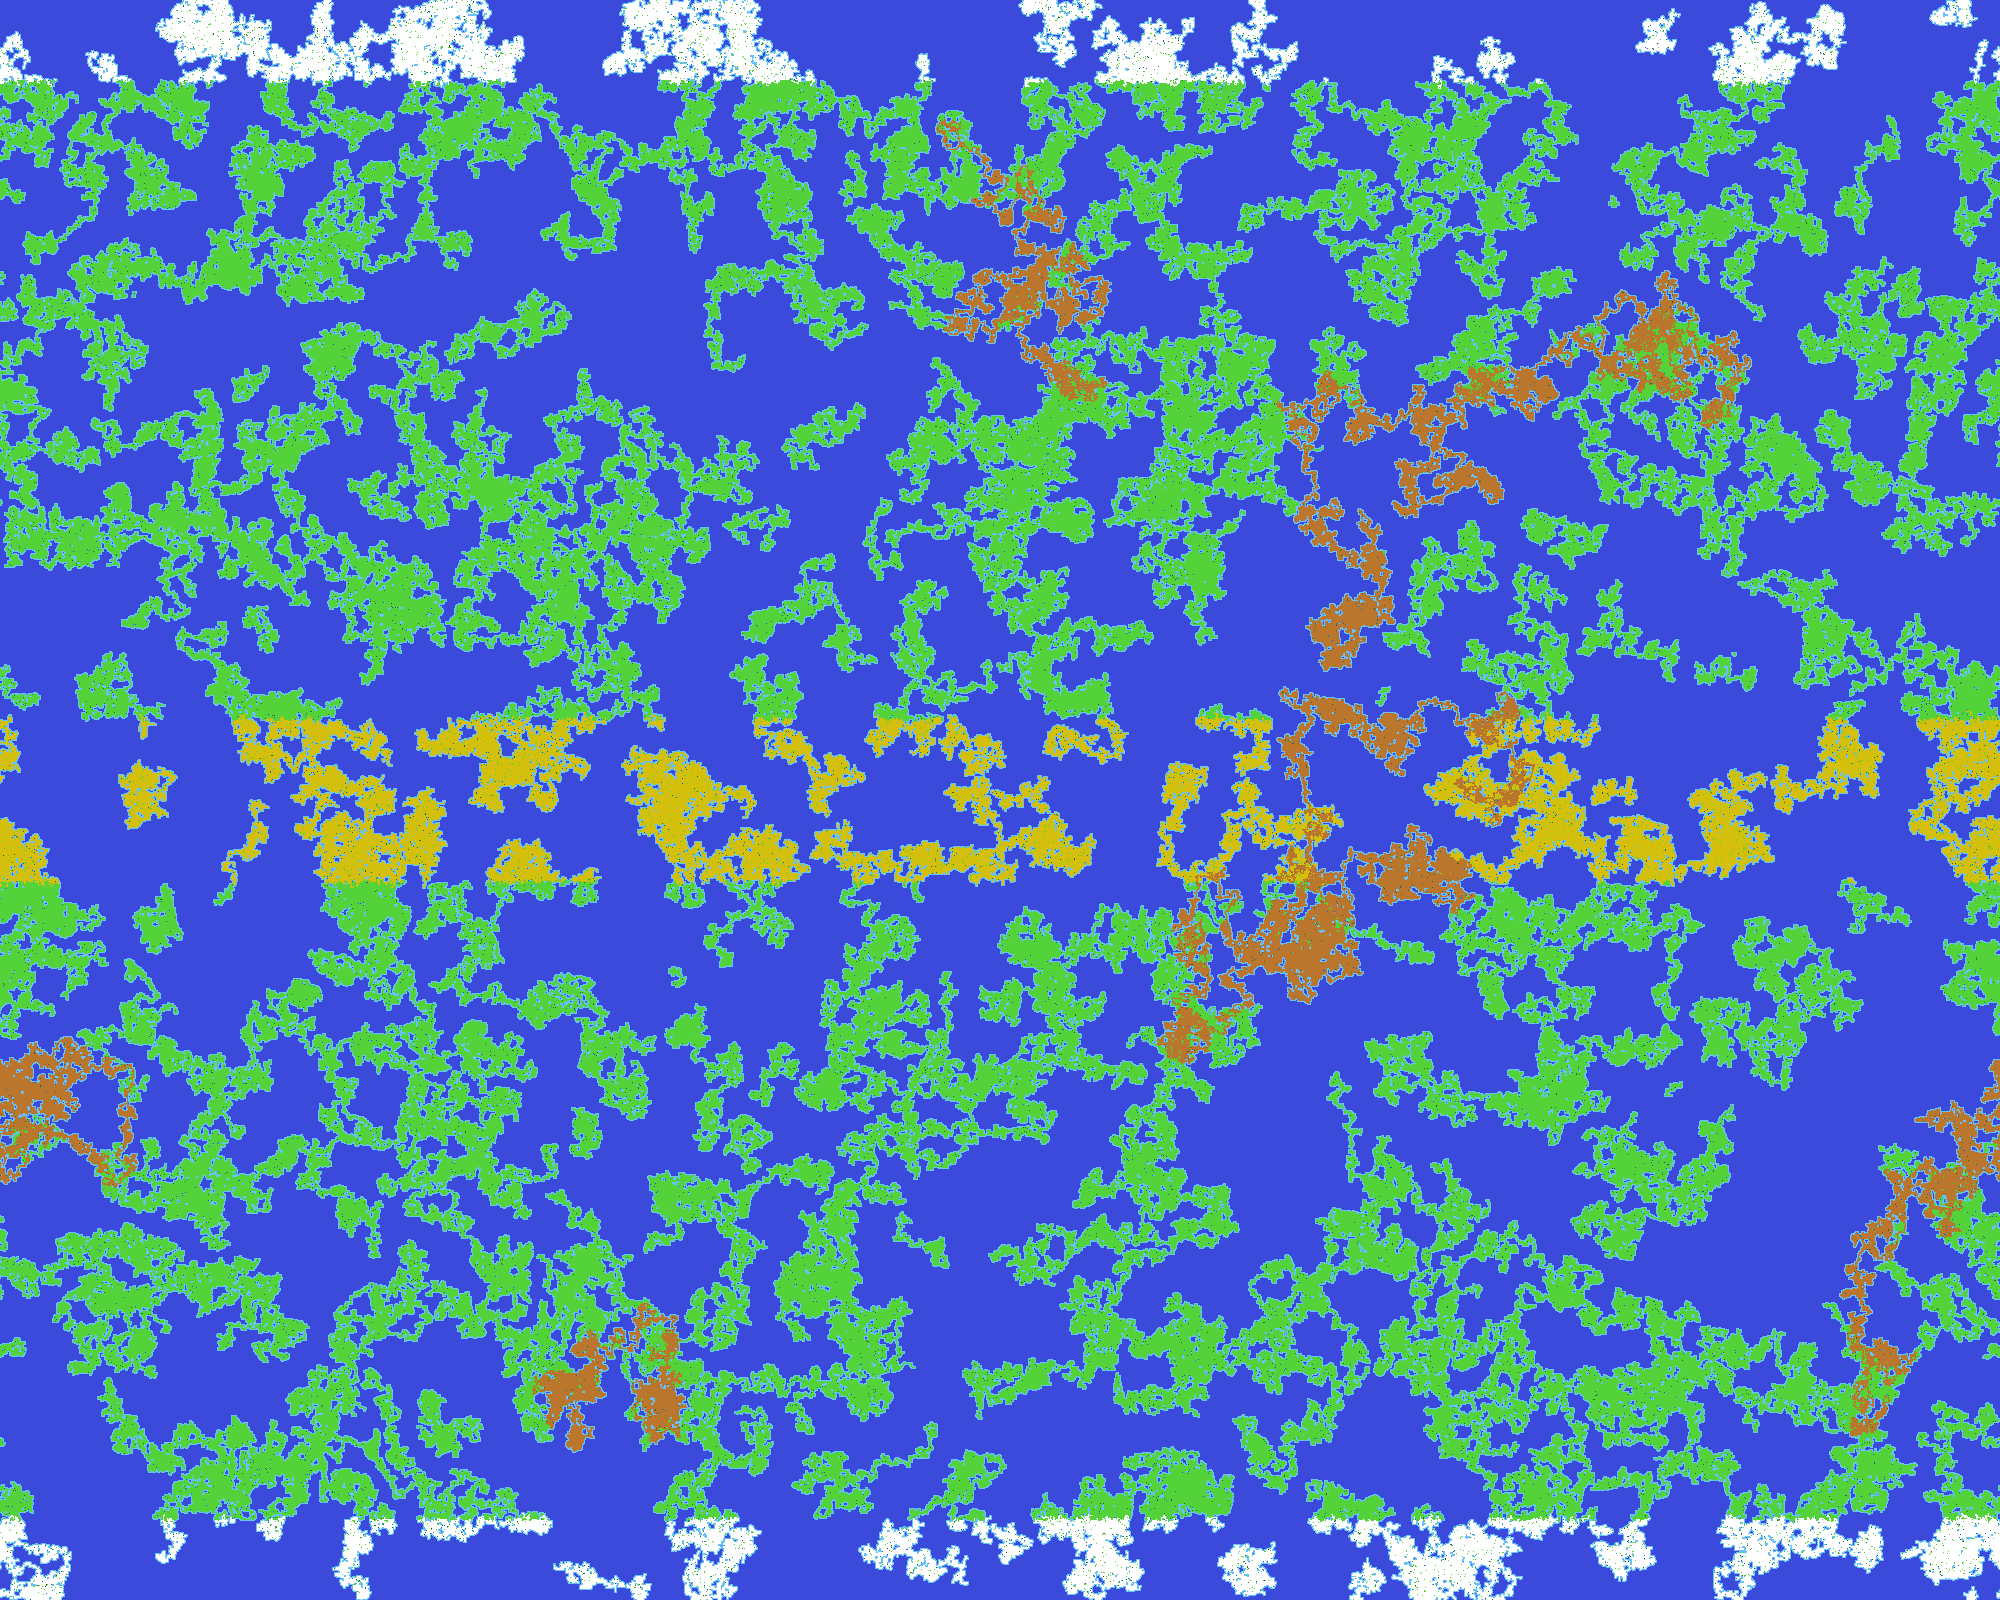
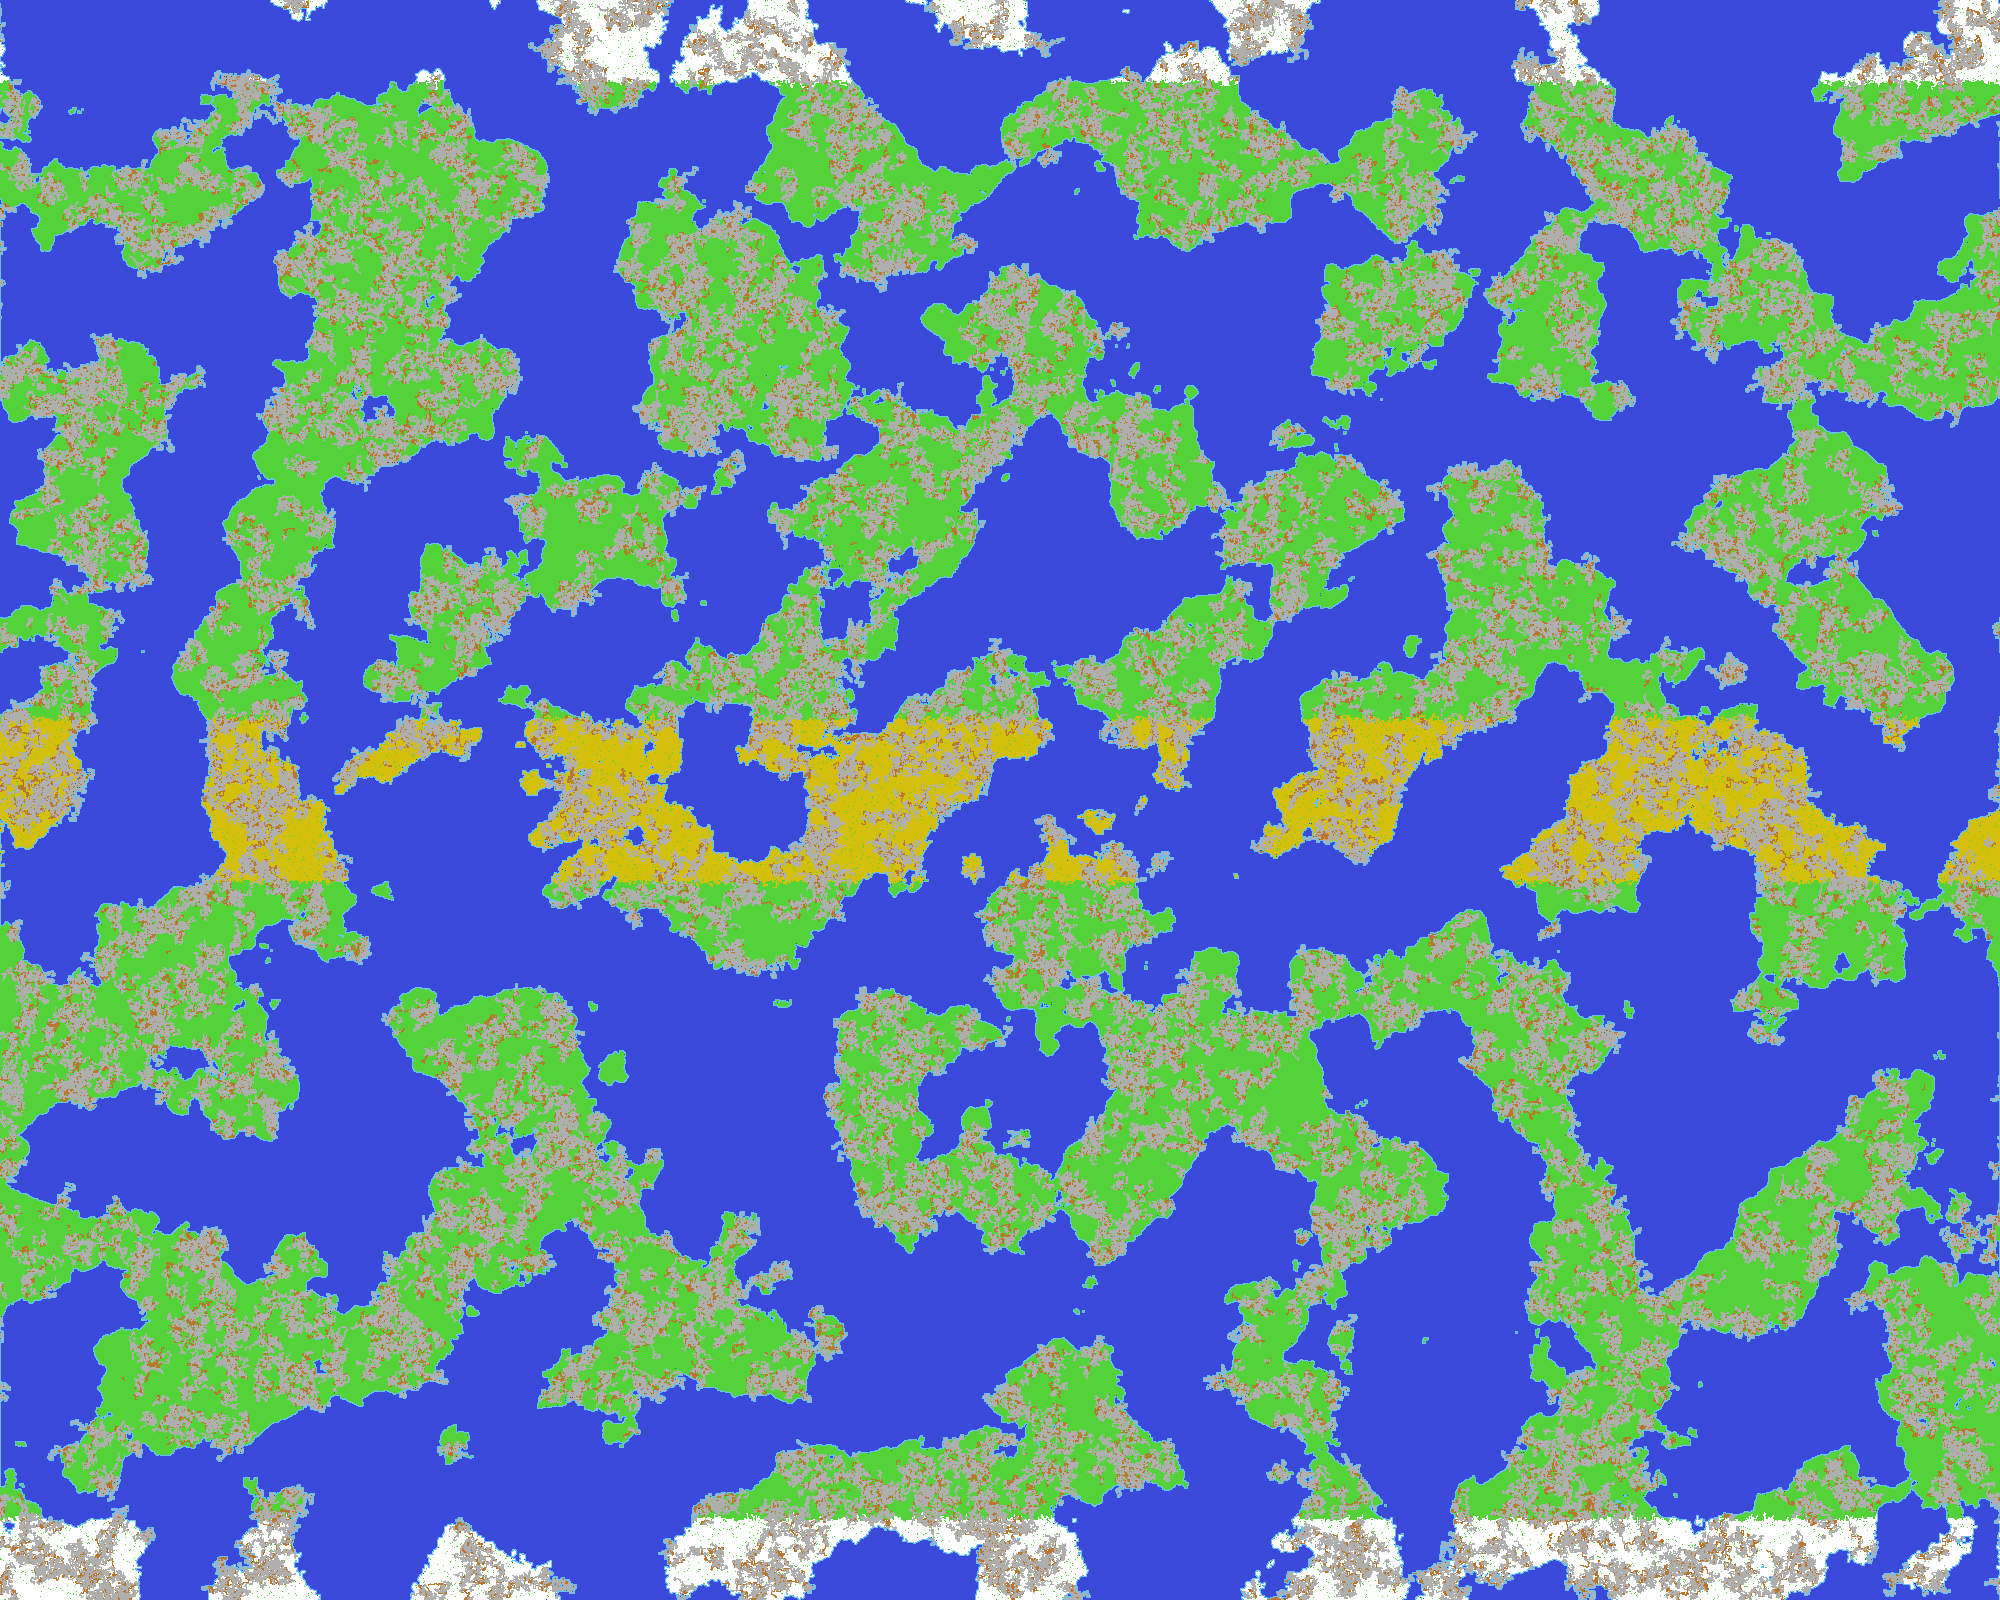
readd mountains + heightmap for land

diff --git a/map_object.py b/map_object.py
@@ -3,14 +3,12 @@ import random
 from parameters import *
 
 class MapObject():
-    hauteur = 0
-    longueur = 0
-    map = []
-    mapr = []
 
-    def __init__(self, longueur, hauteur):
+    def __init__(self, longueur, hauteur, generate_resources=True):
         self.longueur = longueur
         self.hauteur = hauteur
+        self.use_heightmap = True
+        self.generate_resources = generate_resources
         self.map = []
         self.mapr = []
     
@@ -22,8 +20,29 @@ class MapObject():
                 self.map[i].append(1)
         return self.map
     
-    def creationratio(self):
-        ratio = []
+    def get_surface(self):
+        return self.longueur * self.hauteur
+
+    def get_land_ratio(self):
+        total = self.longueur * self.hauteur
+        land = 0
+        for i in range(0, self.hauteur):
+            for j in range(0, self.longueur):
+                if self.map[i][j] != ocn and self.map[i][j] != mer:
+                    land += 1
+        return land/total
+
+    def get_hills_qtt(self):
+        hills = 0
+        for i in range(0, self.hauteur):
+            for j in range(0, self.longueur):
+                if self.map[i][j] == col:
+                    hills += 1
+        return hills    
+
+
+    def get_ratios(self):
+        ratio = dict()
         surface = self.hauteur * self.longueur
         print(surface)
         if surface <= 200:
@@ -42,17 +61,41 @@ class MapObject():
             nbcont = int(surface / 500)
             taillecont = int(surface / 250)
             surfaceterre = int(surface / 4)
-        ratio.append(surface)
-        ratio.append(nbcont)
-        ratio.append(surfaceterre)
-        ratio.append(taillecont)
+        ratio['surface'] = surface
+        ratio['nbcont'] = nbcont
+        ratio['taillecont'] = taillecont
+        ratio['surfaceterre'] = surfaceterre
+
+    def creationratio(self):
+        ratio = dict()
+        surface = self.hauteur * self.longueur
+        print(surface)
+        if surface <= 200:
+            nbcont = random.randint(1, 6)
+            taillecont = int(surface / 10)
+            surfaceterre = int(surface / 4)
+        elif surface > 200 and surface <= 2500:
+            nbcont = random.randint(3, int(surface / 50))
+            taillecont = int(surface / 20)
+            surfaceterre = int(surface / 4)
+        elif surface > 2500 and surface <= 25000:
+            nbcont = int(surface / 25)
+            taillecont = int(surface / 5)
+            surfaceterre = int(surface / 2.5)
+        else:
+            nbcont = int(surface / 500)
+            taillecont = int(surface / 250)
+            surfaceterre = int(surface / 4)
+        ratio['surface'] = surface
+        ratio['nbcont'] = nbcont
+        ratio['taillecont'] = taillecont
+        ratio['surfaceterre'] = surfaceterre
         d2 = [1, 0.75, 0.66, 0.5, 0.33, 0.25, 0.15]
         d = [0.5, 0.4, 0.33, 0.25, 0.20, 0.15, 0.10, 0.05, 0.02]
         for i in range(0, len(d)):
             ##            ratio.append(int(longueur*d[i]))
             ##            ratio.append(int(hauteur*d[i]))
             ratio.append(int(ratio[2] * d[i]))
-        print(ratio[2])
         return ratio
 
 
@@ -63,13 +106,11 @@ class MapObject():
         return var
 
 
-    def creationterre(self, ratio):
+    def creationterre(self):
         crea_time = time.time()
-        # ligne_time=time.time()
-        taille = 0
         ct = 0
-        taillemap = ratio[0]
-        for i in range(0, ratio[1]):  # defini le nb de continent
+        ratio = self.get_ratios()
+        for i in range(0, ratio['nbccont']):  # defini le nb de continent
             if (ct < ratio[2]):
                 c = 0
                 x = random.randint(0, self.longueur - 1)
@@ -82,34 +123,24 @@ class MapObject():
                 if (self.map[y][x] != terr):
                     self.map[y][x] = terr
                     ct = ct + 1
-                tailleC = random.randint(1, ratio[3])
+                tailleC = random.randint(1, ratio['surfaceterre'])
                 for b in range(1, int(tailleC)):  # defini la taille des continents
-                    if (ct < ratio[2]):
+                    if (ct < ratio['taillecont']):
                         ##                                c=0
                         caseadj = self.caseadjacente(x, y)
                         co = random.randint(0, len(caseadj) - 1)
                         x1 = caseadj[co][0]
                         y1 = caseadj[co][1]
-                        ##                                while (map[y1][x1]!=ocn and c<=4):
-                        ##                                        co=random.randint(0,len(caseadj)-1)
-                        ##                                        c=c+1
-                        ##                                        x1=caseadj[co][0]
-                        ##                                        y1=caseadj[co][1]
-                        ##            print("y1= ",y1,"  x1=",x1)
                         x = x1
                         y = y1
                         if (self.map[y][x] != terr):
                             self.map[y][x] = terr
                             ct = ct + 1
-        ##                                caseadj.clear()
-        ##                print(ct)
-        ##                n=len(poss)*2
-        ##        adj,diag=adjacence(map,x,y)
         print("Duree de generation des terres emergees : %s secondes ---" % (time.time() - crea_time))
         return self.map
 
 
-    def creationeige(self, ratio):
+    def creationeige(self):
         crea_time = time.time()
         taille = 0
         nord = int((self.hauteur / 10) * 0.5)
@@ -140,7 +171,7 @@ class MapObject():
         return self.map
 
 
-    def creationdesert(self, ratio):
+    def creationdesert(self):
         crea_time = time.time()
         nord = (self.hauteur / 10) * 4.5
         sud = (self.hauteur / 10) * 5.5
@@ -150,13 +181,6 @@ class MapObject():
             for i in range(0, self.longueur):
                 if self.map[j][i] == terre:
                     if j > nord and j < sud:
-                        ##                    ran=[]
-                        ##                    multi=random.randint(1,20)
-                        ##                    ran.append(desert)
-                        ##                    for b in range (0,multi):
-                        ##                        ran.append(0)
-                        ##                    ch=random.randint(0,len(ran)-1)
-                        ##                    if ran[ch]==desert :
                         taille = random.randint(0, 20)
                         x = i
                         y = j
@@ -178,7 +202,7 @@ class MapObject():
         return self.map
 
 
-    def creationplaine(self, ratio):
+    def creationplaine(self):
         crea_time = time.time()
         # ligne_time=time.time()
         for j in range(0, self.hauteur):
@@ -189,15 +213,14 @@ class MapObject():
         return self.map
 
 
-    def creationcolline(self, ratio):
+    def creationcolline(self):
         crea_time = time.time()
-        # ligne_time=time.time()
-        taille = 0
         ct = 0
-        print(ratio[8])
-        taillemap = ratio[0]
-        for i in range(0, int(ratio[10])):
-            if (ct < ratio[8]):
+        number_of_hills = random.randint(1, int(self.get_land_ratio() * self.get_surface() * 0.3))
+        number_of_tries = int(number_of_hills * 0.5)
+        max_number_of_hills_per_group =int(min(250, number_of_hills*0.2))
+        for i in range(0, number_of_tries):
+            if (ct < number_of_hills):
                 x = random.randint(0, self.longueur - 1)
                 y = random.randint(0, self.hauteur - 1)
                 while (self.map[y][x] not in [neige, pln, desert]):
@@ -206,7 +229,7 @@ class MapObject():
                 terr = col
                 self.map[y][x] = terr
                 ct = ct + 1
-                tailleC = random.randint(1, ratio[10])
+                tailleC = random.randint(1, max_number_of_hills_per_group)
                 for b in range(1, int(tailleC)):
                     c = 0
                     caseadj = self.caseadjacente(x, y)
@@ -230,7 +253,7 @@ class MapObject():
         return self.map
 
 
-    def creationmontagne(self, ratio):
+    def creationmontagne(self):
         crea_time = time.time()
         # ligne_time=time.time()
         taille = 0
@@ -239,8 +262,11 @@ class MapObject():
         c = 0
         x1 = 0
         y1 = 0
-        for i in range(0, int(ratio[12])):
-            if (ct < ratio[10]):
+        number_of_mountains = random.randint(1, int(self.get_hills_qtt()*0.5))
+        number_of_tries = int(number_of_mountains * 0.5)
+        max_number_of_mountains_per_group =int(min(100, number_of_mountains*0.2))
+        for i in range(0, number_of_tries):
+            if (ct <number_of_mountains):
                 x = random.randint(0, self.longueur - 1)
                 y = random.randint(0, self.hauteur - 1)
                 while (self.map[y][x] != col):
@@ -250,12 +276,12 @@ class MapObject():
                 self.map[y][x] = terr
                 ctt = ctt + 1
                 ##        print("taille=",taille)
-                tailleC = random.randint(1, ratio[10])
+                tailleC = random.randint(1, max_number_of_mountains_per_group)
                 for b in range(1, tailleC):
                     ct = 3
                     c = 0
-                    caseadj = self.caseadjacente(self.map, x, y)
-                    casediag = self.casediagonale(self.map, x, y)
+                    caseadj = self.caseadjacente(x, y)
+                    casediag = self.casediagonale(x, y)
                     while ct > 2 and c < 6:
                         ##                print("c=",c)
                         ct = 0
@@ -263,7 +289,7 @@ class MapObject():
                         co = random.randint(0, len(caseadj) - 1)
                         x1 = caseadj[co][0]
                         y1 = caseadj[co][1]
-                        caseadj1 = self.caseadjacente(self.map, x1, y1)
+                        caseadj1 = self.caseadjacente(x1, y1)
                         for i in range(0, len(caseadj1)):
                             ##                    print("i=",i)
                             x2 = caseadj1[i][0]
@@ -285,7 +311,7 @@ class MapObject():
         return self.map
 
 
-    def creationmer(self, ratio):
+    def creationmer(self):
         crea_time = time.time()
         for j in range(0, self.hauteur):
             for i in range(0, self.longueur):
@@ -309,7 +335,7 @@ class MapObject():
         return self.map
 
 
-    def lissage(self, ratio):
+    def lissage(self):
         crea_time = time.time()
         for j in range(0, self.hauteur):
             for i in range(0, self.longueur):
@@ -461,17 +487,49 @@ class MapObject():
                 return True
         return False
 
+    def generate_heightmap(self):
+        import noise
+        heightmap = []
+        octaves = 8
+        freq = 32 * octaves
+        for i in range(0, self.hauteur):
+            heightmap.append([])
+            for j in range(0, self.longueur):
+                heightmap[-1].append(noise.snoise2(j/freq, i/freq, octaves=octaves))
+        # plot the result
+        
+        # import matplotlib.pyplot as plt
+        # plt.imshow(heightmap)
+        # plt.show()
+        return heightmap
+
+
+    def generate_land_from_heightmap(self, heightmap):
+        sea_level = 0.05
+        for i in range(0, self.hauteur):
+            for j in range(0, self.longueur):
+                if heightmap[i][j] > sea_level:
+                    self.map[i][j] = terre
+                else:
+                    self.map[i][j] = ocn
+        return self.map
+
     def creationmap(self):
+        
         self.map = self.initmap()
-        ratio = self.creationratio()
-        self.map = self.creationterre(ratio)
-        self.map = self.creationeige(ratio)
-        self.map = self.creationdesert(ratio)
-        self.map = self.creationplaine(ratio)
-        self.map = self.creationcolline(ratio)
-        ##        map=creationmontagne(ratio)
-        self.map = self.creationmer(ratio)
-        self.map = self.lissage(ratio)
-        self.mapr = self.ressourcemap()
-        print(ratio)
+        if self.use_heightmap:
+            heightmap= self.generate_heightmap()
+            self.map = self.generate_land_from_heightmap(heightmap)
+        else:
+            self.map = self.creationterre()
+        self.map = self.creationeige()
+        self.map = self.creationdesert()
+        self.map = self.creationplaine()
+        self.map = self.creationcolline()
+        self.map = self.creationmontagne()
+        self.map = self.creationmer()
+        self.map = self.lissage()
+        if self.generate_resources:
+            self.mapr = self.ressourcemap()
         return self.map, self.mapr
+    

diff --git a/export.py b/export.py
@@ -24,8 +24,11 @@ def export_html(map_object, filename):
             ligne = ligne + 1
             fichier.write("			<tr>\n")
             for j in range(0, map_object.longueur):
-                fichier.write('<td class="d' + str(map_object.map[i][j]) + '">' + "<pre class=R" + str(map_object.mapr[i][j]) + " > " + str(
-                    map_object.mapr[i][j]) + " </pre>" + "</td>\n")
+                if map_object.generate_resources:
+                    fichier.write('<td class="d' + str(map_object.map[i][j]) + '">' + "<pre class=R" + str(map_object.mapr[i][j]) + " > " + str(
+                        map_object.mapr[i][j]) + " </pre>" + "</td>\n")
+                else:
+                    fichier.write('<td class="d' + str(map_object.map[i][j]) + '">' + "</td>\n")
             fichier.write("			</tr>\n")
             modul = ligne % 50
             if modul == 0:

diff --git a/main.py b/main.py
@@ -33,7 +33,7 @@ def main():
     longueur = params["longueur"]
     hauteur = params["hauteur"]
 
-    map_object = MapObject(longueur, hauteur)
+    map_object = MapObject(longueur, hauteur, params.get('generate_resources',True))
     if (params['mode'] in ["generate", "write"]):
         map_object.creationmap()
         if (params['mode'] == 'write'):
